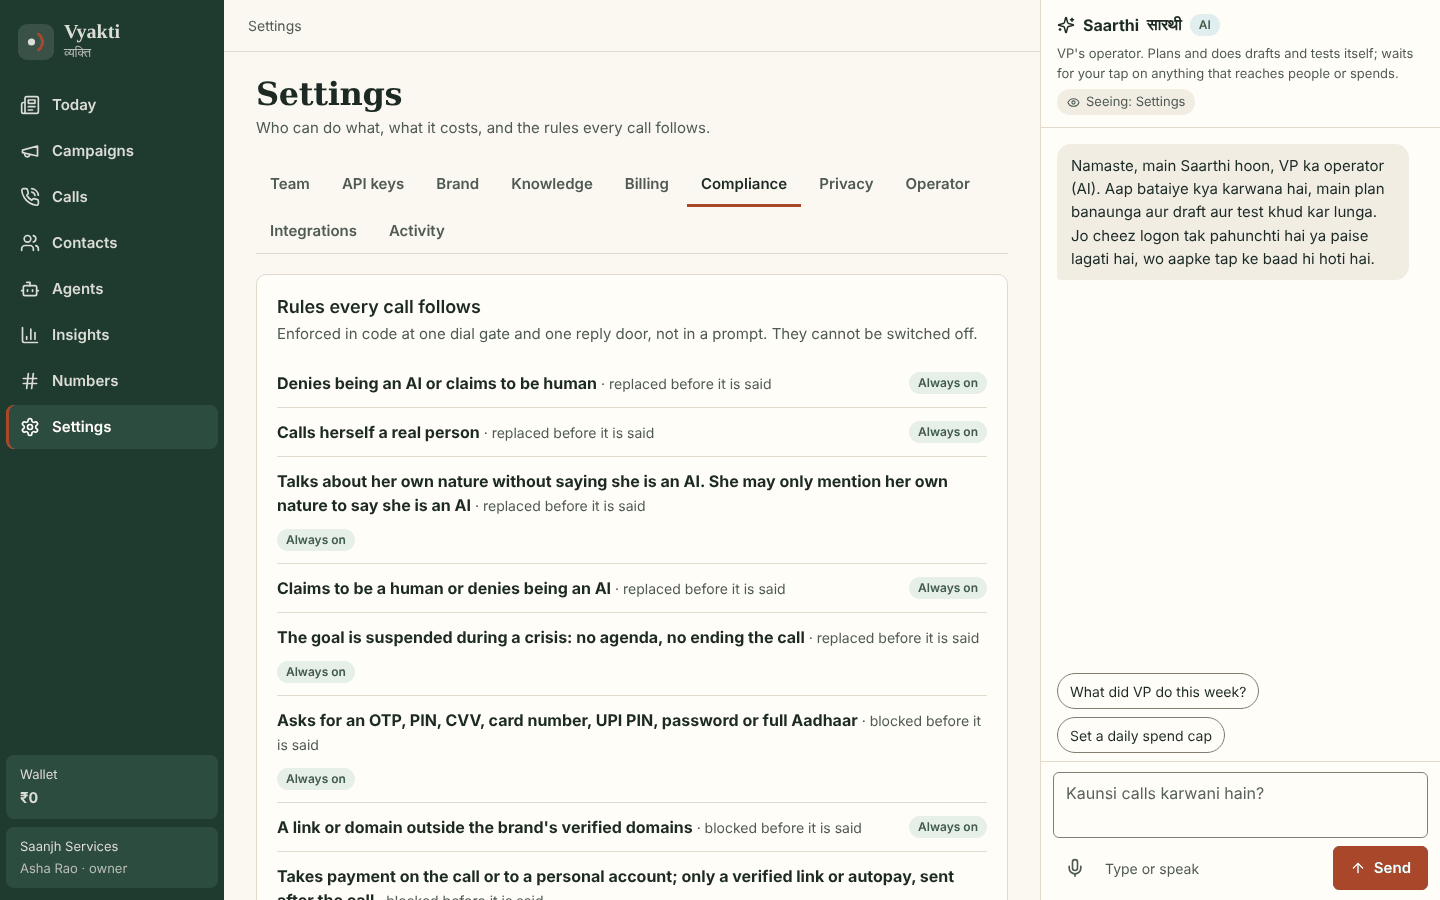
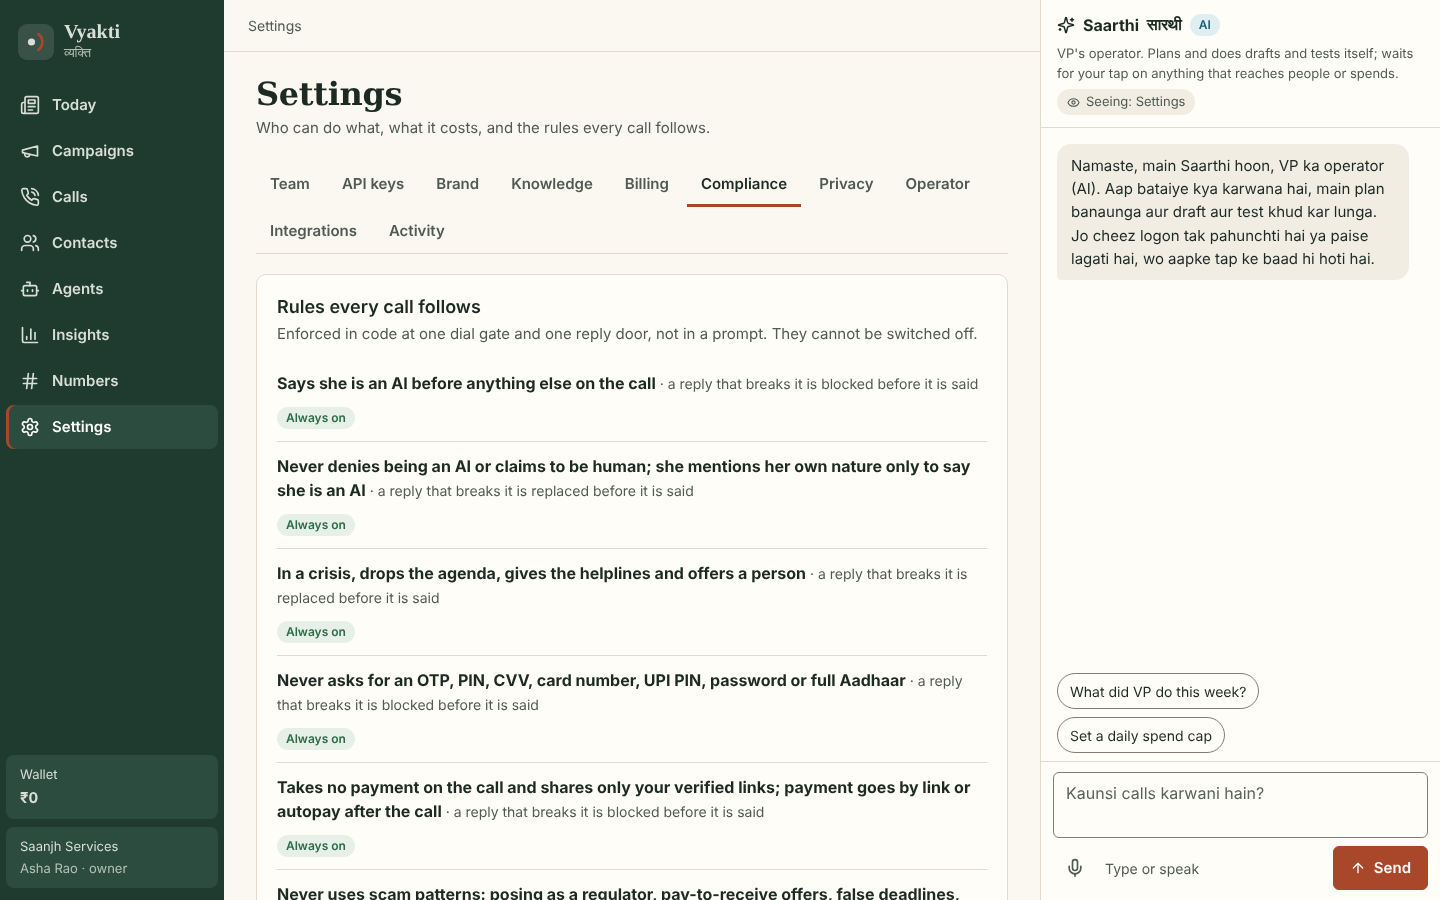
Web: compliance tab shows one plain line per safety rule (RD1-RD11), not one engineer reason per pattern
The tab printed rules.json `reason` for every pattern, so RD2 appeared four times in near-identical words, and
'allow-list', 'neverSay', 'IRDAI solicitation fence' and '(RBI Fair Practices)' reached people. Each rule now has a line in
labels.ts RULE_LABEL, saying what she does; `reason` stays the engineer and log text. A test fails if a reply rule in
rules.json has no line. Context: open question on naming the object in activity rows (audit stores only an args hash).
Verified: tsc clean; tests/web.test.ts 10/10 including the browser flows; ui-contract --strict 169/169; compliance tab
re-shot at 390 and 1440 and checked by eye.

Claude-Session: https://claude.ai/code/session_01QRmKfijmjXuo8anLZ2SL3g

Changed region(s): [[0.1875, 0.4044, 0.6875, 1.0]]

diff --git a/product/web/src/pages/settings.tsx b/product/web/src/pages/settings.tsx
@@ -10,7 +10,7 @@ import { ago, count, date, inr, time } from '../format.ts';
 import { prettyId } from '../catalog.ts';
 import { prettyCode } from './contacts.tsx';
 import { Link } from '../router.tsx';
-import { activitySentence, pageFor } from '../labels.ts';
+import { activitySentence, pageFor, RULE_LABEL } from '../labels.ts';
 import type { ActivityRow, ApiKey, KnowledgeItem, Member } from '../types.ts';
 
 const TABS = ['team', 'keys', 'brand', 'knowledge', 'billing', 'compliance', 'privacy', 'operator', 'integrations', 'activity'] as const;
@@ -176,7 +176,7 @@ function Compliance() {
   return (
     <div className="stack">
       <Card><CardHead title="Rules every call follows" sub="Enforced in code at one dial gate and one reply door, not in a prompt. They cannot be switched off." />
-        <Async q={q} what="Safety rules" tool="safety.cases">{d => <><ul className="billing">{d.rules.reply.map(r => <li key={r.id}><div><strong>{ruleWords(r.reason)}</strong><span className="small muted"> · {r.action === 'block' ? 'blocked' : 'replaced'} before it is said</span></div><Chip tone="leaf">Always on</Chip></li>)}</ul><p className="small muted">Rules last updated {(() => { const m = /^(\d{4}-\d{2}-\d{2})/.exec(d.rules.version); return m ? new Date(m[1] + 'T00:00:00+05:30').toLocaleDateString('en-IN', { day: 'numeric', month: 'long', year: 'numeric', timeZone: 'Asia/Kolkata' }) : 'recently'; })()}. Also always on: DND and opt-out checks before every attempt, and the AI disclosure, spoken once and lightly.</p></>}</Async></Card>
+        <Async q={q} what="Safety rules" tool="safety.cases">{d => <><ul className="billing">{byRule(d.rules.reply).map(r => <li key={r.rule}><div><strong>{RULE_LABEL[r.rule] ?? ruleWords(r.reason)}</strong><span className="small muted"> · a reply that breaks it is {r.action === 'block' ? 'blocked' : r.action === 'replace' ? 'replaced' : 'stopped'} before it is said</span></div><Chip tone="leaf">Always on</Chip></li>)}</ul><p className="small muted">Rules last updated {(() => { const m = /^(\d{4}-\d{2}-\d{2})/.exec(d.rules.version); return m ? new Date(m[1] + 'T00:00:00+05:30').toLocaleDateString('en-IN', { day: 'numeric', month: 'long', year: 'numeric', timeZone: 'Asia/Kolkata' }) : 'recently'; })()}. Also always on: DND and opt-out checks before every attempt, and the AI disclosure, spoken once and lightly.</p></>}</Async></Card>
       <Card><CardHead title="Workspace calling hours" sub="The outer band every campaign window must sit inside. Widening it is a policy change." />
         {policy ? <><div className="formgrid"><TextField label="From" type="time" value={band.start} onChange={e => setBand({ ...band, start: e.target.value })} /><TextField label="To" type="time" value={band.end} onChange={e => setBand({ ...band, end: e.target.value })} /></div>
           <div style={{ marginTop: 12 }}>{band.start < band.end ? <Btn kind="primary" onClick={() => void act('policy.window.set', { outerBand: band }, { describe: 'Calling hours changed.' })}>Ask to set</Btn> : <Btn disabled reason="The band must end after it starts.">Ask to set</Btn>}</div></> : <Locked role="owner or compliance lead" />}</Card>
@@ -244,6 +244,16 @@ export { count, Lock };
 
 const SECRET_WORDS: Record<string, string> = { service_account_json: 'service account file', api_key: 'API key', api_token: 'API token', webhook_url: 'webhook address', client_id: 'client ID' };
 const secretWords = (s: string) => SECRET_WORDS[s] ?? s.replace(/_/g, ' ').replace(/\bjson\b/gi, 'file').replace(/\burl\b/gi, 'address');
+/** rules.json lists each pattern; a person sees one row per rule, in rule order, with 'mixed' when its patterns differ in action. */
+const byRule = (reply: Rules['rules']['reply']) => {
+  const m = new Map<string, { rule: string; reason: string; action: string }>();
+  for (const r of reply) {
+    const g = m.get(r.rule);
+    if (!g) m.set(r.rule, { rule: r.rule, reason: r.reason, action: r.action });
+    else if (g.action !== r.action) g.action = 'mixed';
+  }
+  return [...m.values()].sort((a, b) => Number(a.rule.replace(/\D/g, '')) - Number(b.rule.replace(/\D/g, '')));
+};
 const ruleWords = (r: string) => { const t = r.replace(/\s*\(allow-list:[^)]*\)/, '. She may only mention her own nature to say she is an AI').replace(/neverSay/g, 'never-say list').replace(/([a-z])([A-Z])/g, '$1 $2'); return t.charAt(0).toUpperCase() + t.slice(1); };
 
 const walletNote = (x: string) => /^no money available/i.test(x) ? 'There is no money to spend. New attempts wait; calls already live always finish.' : x.charAt(0).toUpperCase() + x.slice(1);

diff --git a/product/web/src/labels.ts b/product/web/src/labels.ts
@@ -104,6 +104,22 @@ export function blockerCopy(b: Blocker): { text: string; why?: string; to?: { la
 
 export const pl = (n: number, one: string, many = one + 's') => `${n} ${n === 1 ? one : many}`;
 
+/** One line per safety rule for the compliance tab, in what she does. rules.json `reason` stays the engineer and log text.
+ *  A test fails if rules.json has a reply rule with no line here. */
+export const RULE_LABEL: Record<string, string> = {
+  RD1: 'Says she is an AI before anything else on the call',
+  RD2: 'Never denies being an AI or claims to be human; she mentions her own nature only to say she is an AI',
+  RD3: 'In a crisis, drops the agenda, gives the helplines and offers a person',
+  RD4: 'Never asks for an OTP, PIN, CVV, card number, UPI PIN, password or full Aadhaar',
+  RD5: 'Takes no payment on the call and shares only your verified links; payment goes by link or autopay after the call',
+  RD6: 'Never uses scam patterns: posing as a regulator, pay-to-receive offers, false deadlines, asking for secrecy, or amounts not in your facts',
+  RD7: 'No promotion on service calls, and never says a phrase on your never-say list',
+  RD8: 'For insurance: no guaranteed returns, no unbacked "better" or "best plan" claims, no pressure to switch or bundle',
+  RD9: 'On dues calls: no threats, shaming, or pressure through family and friends',
+  RD10: 'If the person refuses recording, she accepts it and does not insist',
+  RD11: 'Shares account details only after the person\'s identity is verified',
+};
+
 /** What each tool did, in the past tense and without the actor ("ran a practice call"), for the activity ledger. A test fails if the
  *  server registers a tool that is not here. An unknown id falls back to "made a change", never to the id itself. */
 export const PAST: Record<string, string> = {

diff --git a/product/tests/web.test.ts b/product/tests/web.test.ts
@@ -80,6 +80,15 @@ test('every tool the server registers has a person-facing past-tense label for t
   for (const [k, v] of Object.entries(PAST)) assert.ok(!/[_]|\b\w+\.\w+\b/.test(v) && !/\b[a-z]+[A-Z]/.test(v), `label for ${k} reads like a code: ${v}`);
 });
 
+test('every reply rule in rules.json has a person-facing line on the compliance tab', async () => {
+  const { rulesSummary } = await import('../shared/safety/index.ts');
+  const { RULE_LABEL } = await import('../web/src/labels.ts');
+  const ids = [...new Set(rulesSummary().reply.map(r => r.rule))];
+  const missing = ids.filter(id => !RULE_LABEL[id]);
+  assert.deepEqual(missing, [], 'reply rules with no compliance-tab line: ' + missing.join(', '));
+  for (const [k, v] of Object.entries(RULE_LABEL)) assert.ok(!/[_]|\b[a-z]+[A-Z]|\bRD\d|\(.*:/.test(v), `rule line for ${k} reads like a code: ${v}`);
+});
+
 test('no page writes from a menu: act() is never called inside an onChange of a select or input', () => {
   for (const f of readdirSync(web + 'src/pages')) {
     const txt = readFileSync(web + 'src/pages/' + f, 'utf8');
